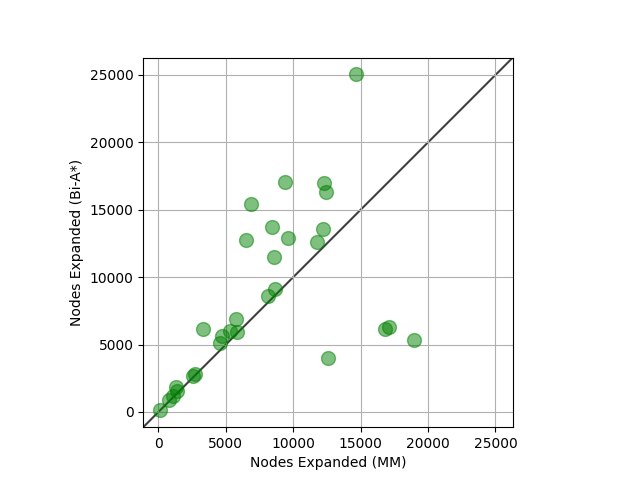
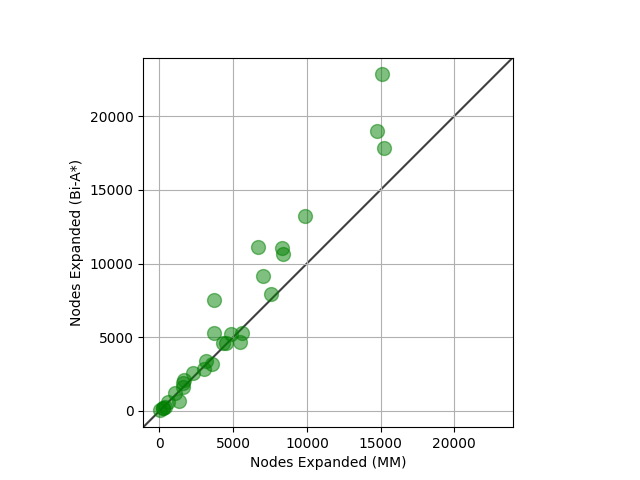
Final :(

diff --git a/main.py b/main.py
@@ -43,7 +43,7 @@ def main():
         start = start_states[i]
         goal = goal_states[i]
     
-        cost, expanded_astar = dj(start,goal,gridded_map) # Replace None, None with a call to your implementation of A*
+        cost, expanded_astar = A(start,goal,gridded_map) # Replace None, None with a call to your implementation of A*
         nodes_expanded_astar.append(expanded_astar)
 
         if cost != solution_costs[i]:
@@ -65,7 +65,7 @@ def main():
             print("Solution cost expected: ", solution_costs[i])
             print()
 
-        cost, expanded_biastar = bibs(start,goal,gridded_map)# Replace None, None with a call to your implementation of Bi-A*
+        cost, expanded_biastar = biA(start,goal,gridded_map)# Replace None, None with a call to your implementation of Bi-A*
         nodes_expanded_biastar.append(expanded_biastar)
         
         if cost != solution_costs[i]:
@@ -94,7 +94,7 @@ def getfcost(x,g):
     return cost
 
 
-def dj(s,g,gridded_map):
+def A(s,g,gridded_map):
     #gridded_map = Map("dao-map/brc000d.map")
     OPEN = []
     CLOSED = {}
@@ -132,7 +132,7 @@ def dj(s,g,gridded_map):
     #gridded_map.plot_map(CLOSED,s,g,'ponisDL')
     return float(-1),NodesExpanded    
 
-def bibs(s,g,gridded_map):
+def biA(s,g,gridded_map):
     #gridded_map = Map("dao-map/brc000d.map")
     ###########################FORWARD
     OPENf = []
@@ -156,12 +156,11 @@ def bibs(s,g,gridded_map):
     while (len(OPENf) != 0) and (len(OPENb) !=0):
         #stopping condition
         if u<= min(OPENf[0]._cost, OPENb[0]._cost):
-            #print(NodesExpanded)
             #gridded_map.plot_map(CLOSEDb|CLOSEDf,s,g,'ponisbibs')
             return u,NodesExpanded
         
         #expanding forward search
-        if OPENf[0]._g<OPENb[0]._g:
+        if OPENf[0]._cost<OPENb[0]._cost:
 
             n =OPENf.pop(0)
             NodesExpanded+=1
@@ -181,7 +180,7 @@ def bibs(s,g,gridded_map):
 
                 #If it has found a better path
                 if hash in CLOSEDf and x._g< CLOSEDf[hash]._g:
-                    #heapq.heappush(OPENf,x)
+                    heapq.heappush(OPENf,x)
                     CLOSEDf[hash]._cost = x._cost
                     CLOSEDf[hash]._g = x._g
                     heapq.heapify(OPENf)
@@ -193,14 +192,14 @@ def bibs(s,g,gridded_map):
             nx,ny = n._x, n._y
             for x in children:
                 hash = x.state_hash()
-                x.set_cost(getfcost(x,g))
+                x.set_cost(getfcost(x,s))
                 if hash in  CLOSEDf:
                     u = min(u, x._g+CLOSEDf[hash]._g)
                 if hash not in CLOSEDb:
                     heapq.heappush(OPENb,x)
                     CLOSEDb[hash] = x
                 if hash in CLOSEDb and x._g< CLOSEDb[hash]._g:
-                   # heapq.heappush(OPENb,x)
+                    heapq.heappush(OPENb,x)
                     CLOSEDb[hash]._cost = x._cost
                     CLOSEDb[hash]._g = x._g
                     heapq.heapify(OPENb)
@@ -243,7 +242,7 @@ def MM(s,g,gridded_map):
                     u = min(u, x._g +CLOSEDb[hash]._g)
 
                  if hash in CLOSEDf and x._g< CLOSEDf[hash]._g:
-                    #heapq.heappush(OPENf,x)
+                    heapq.heappush(OPENf,x)
                     CLOSEDf[hash]._cost = x._cost
                     CLOSEDf[hash]._g = x._g
                     heapq.heapify(OPENf)
@@ -258,14 +257,14 @@ def MM(s,g,gridded_map):
              children = gridded_map.successors(n)
              for x in children:
                  hash = x.state_hash()
-                 f = getfcost(x,g)
+                 f = getfcost(x,s)
                  p = max(f,2*x._g)
                  x.set_cost(p)
                  if hash in CLOSEDf:
                     u = min(u, x._g +CLOSEDf[hash]._g)
 
                  if hash in CLOSEDb and x._g< CLOSEDb[hash]._g:
-                   # heapq.heappush(OPENb,x)
+                    heapq.heappush(OPENb,x)
                     CLOSEDb[hash]._cost = x._cost
                     CLOSEDb[hash]._g = x._g
                     heapq.heapify(OPENb)
